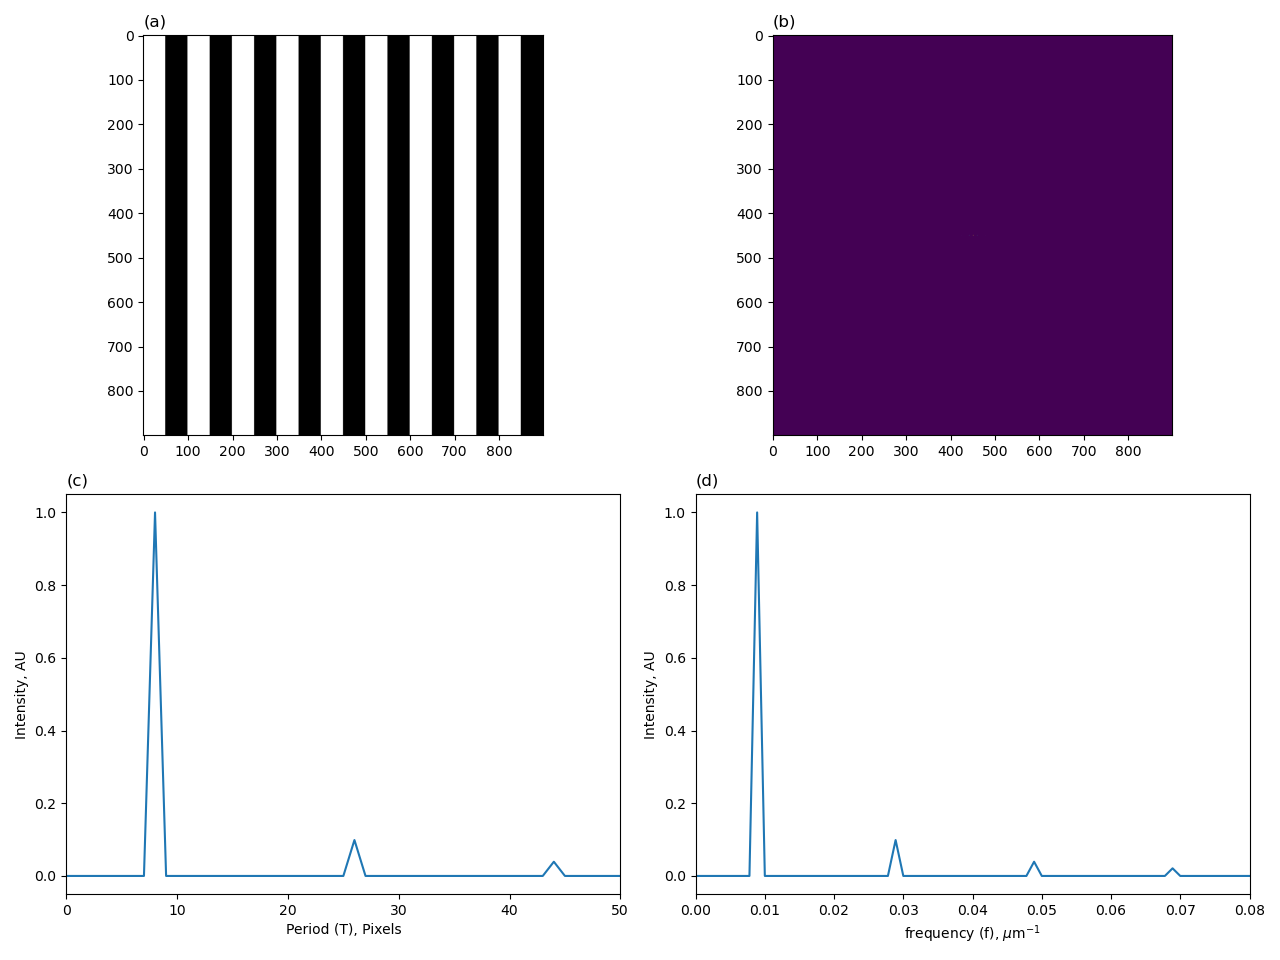
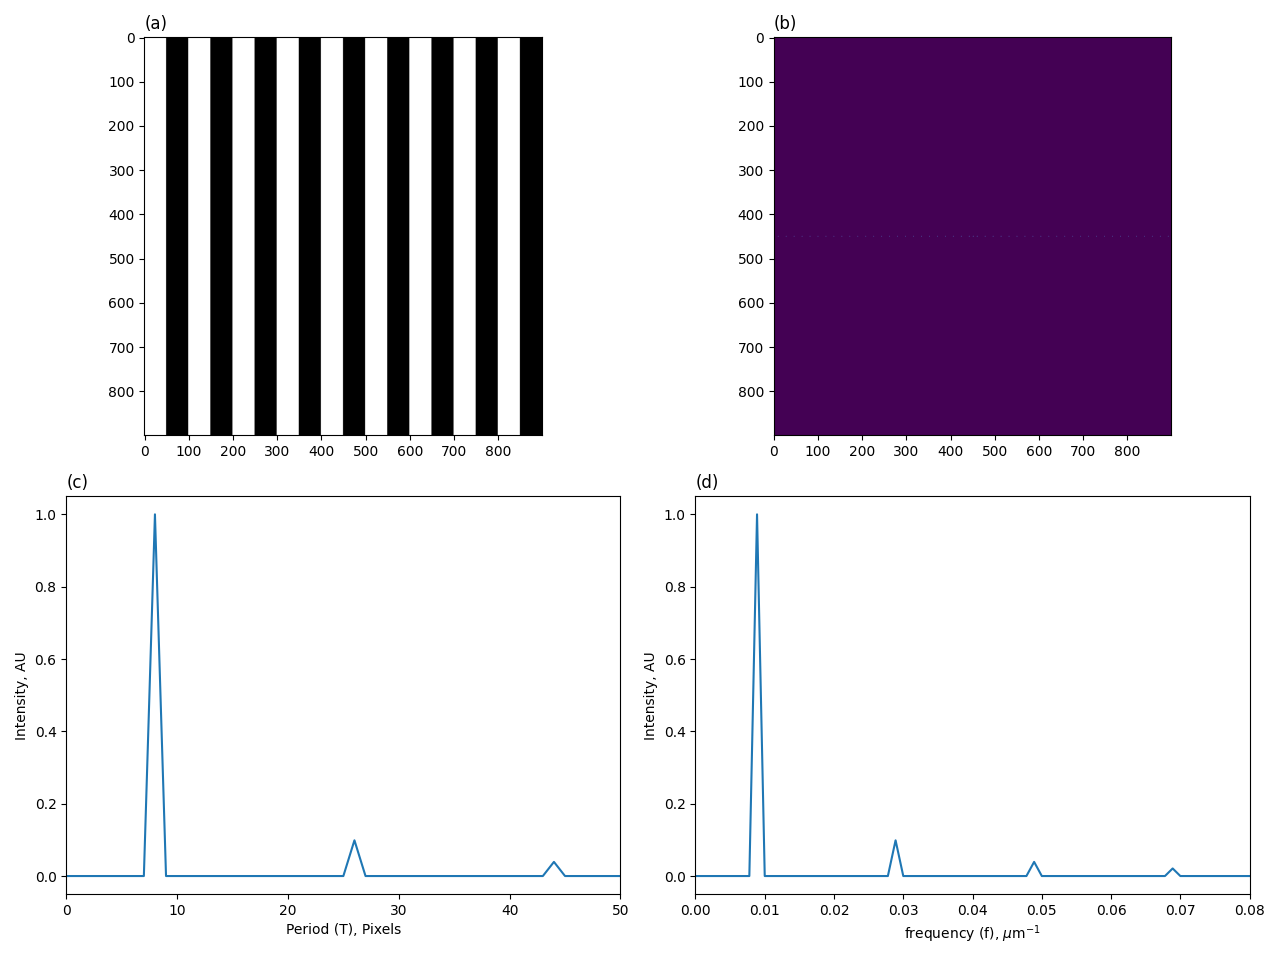
changed plot panel (b) to np.log(1 + psd2) to visualize better

diff --git a/test_cases/synthetic_images/vertical_lines/src/verticalLines.py b/test_cases/synthetic_images/vertical_lines/src/verticalLines.py
@@ -70,7 +70,7 @@ axs[0,0].imshow(img, cmap='gray')
 axs[0,0].set_title("(a)", loc='left')
 # axs[0,0].set_title("(a) Original image", loc='left')
 
-axs[0,1].imshow(psd2D)
+axs[0,1].imshow(np.log(1 + psd2D))
 axs[0,1].set_title("(b)", loc='left')
 # axs[0,1].set_title("(b) Center-shifted 2D Power Spectral Density", loc='left')
 
